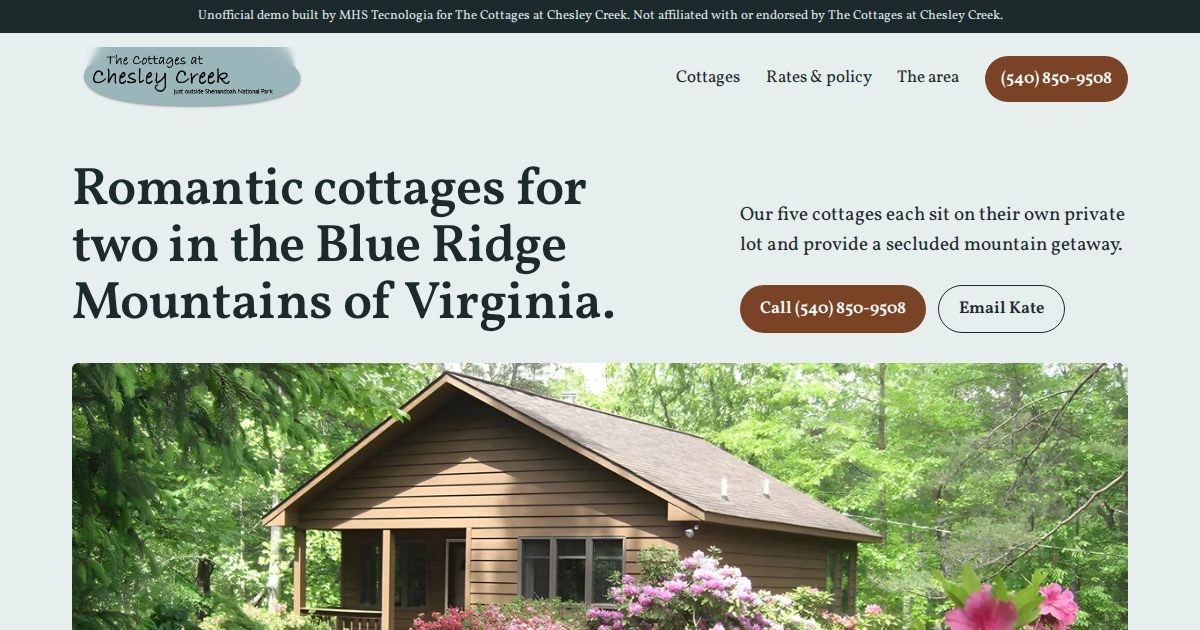
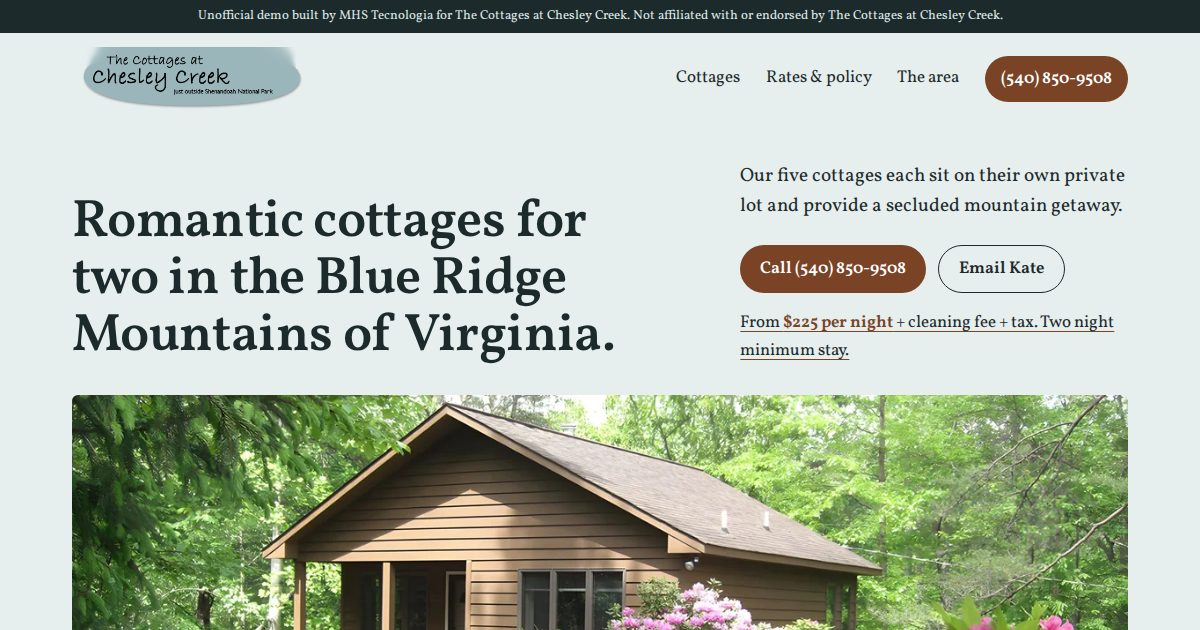
Previews: 166 ativos

diff --git a/cottages-at-chesley-creek-st-george-va/index.html b/cottages-at-chesley-creek-st-george-va/index.html
@@ -85,24 +85,28 @@ figure figcaption{font-size:.9375rem;color:var(--slate-d);margin-top:.55rem;font
 @media (max-width:860px){.land .grid{grid-template-columns:1fr}}
 @media (max-width:560px){.strip{height:auto;flex-direction:column}.strip > div{padding:.6rem .8rem}.strip .p1500{flex:none;height:7.5rem}.strip .ours{flex:none;height:2.6rem;align-items:center}.strip .ours b{display:inline;font-size:1.1rem;margin-right:.4rem}.strip .p1000{flex:none;height:5rem}.dist{grid-template-columns:1fr}}
 /* cottage index with one photo frame */
-.idx{position:relative;display:grid;grid-template-columns:1fr;gap:0}
-.idx h2{margin-bottom:.5rem}
-.idx ol{list-style:none;padding:0;margin-top:1.5rem;border-top:1px solid #b9cbcc}
-.idx li{border-bottom:1px solid #b9cbcc}
-.idx li a{display:block;padding:1.1rem 0;text-decoration:none;color:var(--ink)}
-.idx .nm{display:block;font-size:clamp(1.75rem,3.4vw,2.6rem);font-weight:600;line-height:1.1}
-.idx .hl{display:block;font-style:italic;color:var(--slate-d);font-size:1.0625rem;margin-top:.2rem}
-.idx .go{display:block;color:var(--cedar);font-size:1rem;margin-top:.35rem;text-decoration:underline;text-underline-offset:3px}
-.idx figure{margin-top:1rem}
-.idx figure img{width:100%;border-radius:.375rem}
-@media (min-width:900px){
- .idx{grid-template-columns:1fr 1fr;column-gap:clamp(2rem,5vw,4.5rem)}
- .idx .list{grid-column:1}
- .idx li figure{position:absolute;margin:0;right:0;top:var(--ft,0);width:calc(50% - clamp(1rem,2.5vw,2.25rem));opacity:0;transition:opacity .45s ease;pointer-events:none}
- .idx li.on figure{opacity:1}
- .idx li a:hover .nm,.idx li a:focus-visible .nm,.idx li.on .nm{color:var(--cedar)}
- .idx .go{display:none}
-}
+.idx ol{list-style:none;padding:0;margin-top:2rem}
+.idx li{padding:1.75rem 0;border-top:1px solid #b9cbcc}
+.idx .row{display:grid;grid-template-columns:1fr;gap:1rem}
+.idx .row > a{display:flex;flex-wrap:wrap;align-items:baseline;column-gap:1.25rem}
+.idx .row > a{text-decoration:none;color:var(--ink)}
+.idx .row > a:hover .nm{color:var(--cedar)}
+.idx .nm{display:block;font-size:clamp(1.75rem,3.2vw,2.5rem);font-weight:600;line-height:1.1}
+.idx .hl{display:block;font-style:italic;color:var(--slate-d);font-size:1.0625rem}
+.idx .go{display:inline-block;color:var(--cedar);font-size:1rem;margin-left:auto;text-decoration:underline;text-underline-offset:3px}
+.idx .duo{display:grid;grid-template-columns:1fr 1fr;gap:.75rem}
+.idx .duo img{width:100%;border-radius:.375rem}
+@media (max-width:560px){.idx .duo{grid-template-columns:1fr}.idx .duo figure+figure{display:none}}
+/* reviews */
+.reviews{background:var(--paper)}
+.reviews ul{list-style:none;padding:0;display:grid;grid-template-columns:repeat(4,1fr);gap:clamp(1rem,2.5vw,2rem);margin-top:1.75rem}
+.reviews li{border-top:3px solid var(--cedar);padding-top:1rem;font-style:italic;font-size:1.15rem;line-height:1.5}
+.reviews .src{margin-top:1.5rem;font-size:.9375rem;color:var(--slate-d)}
+@media (max-width:900px){.reviews ul{grid-template-columns:1fr 1fr}}
+@media (max-width:560px){.reviews ul{grid-template-columns:1fr}}
+.price{margin-top:1rem;font-size:1.0625rem}
+.price a{color:var(--ink);text-decoration-color:var(--cedar);text-underline-offset:4px}
+.price b{color:var(--cedar);font-weight:600}
 /* features band */
 .band{background:var(--slate);color:var(--ink)}
 .band .grid{display:grid;grid-template-columns:1fr 1.4fr;gap:clamp(2rem,5vw,4.5rem)}
@@ -192,6 +196,7 @@ footer .legal{margin-top:2.5rem;padding-top:1.25rem;border-top:1px solid rgba(25
    <div class="side">
     <p class="lede">Our five cottages each sit on their own private lot and provide a secluded mountain getaway.</p>
     <div class="actions"><a class="btn solid" href="tel:+15408509508">Call (540) 850-9508</a><a class="btn line" href="mailto:katedaniels1@icloud.com">Email Kate</a></div>
+    <p class="price"><a href="stay.html">From <b>$225 per night</b> + cleaning fee + tax. Two night minimum stay.</a></p>
    </div>
   </div>
   <figure>
@@ -234,18 +239,31 @@ footer .legal{margin-top:2.5rem;padding-top:1.25rem;border-top:1px solid rgba(25
    <h2>Five cottages</h2>
    <p>The CREEK HOUSE, PINES, RIDGE, LAURELWOOD and The LOG HOUSE: each sits on its own private lot.</p>
    <ol>
-   <li class="on"><a href="cottages.html#creek"><span class="nm">The Creek House</span><span class="hl">A Romantic Creekside Cottage in Virginia’s Blue Ridge Mountains</span><span class="go">See The Creek House</span></a>
-    <figure><img src="img/creek-ext-780.webp" srcset="img/creek-ext-480.webp 480w, img/creek-ext-640.webp 640w, img/creek-ext-780.webp 780w" sizes="(min-width: 900px) min(31rem, 44vw), calc(100vw - 2rem)" width="780" height="585" alt="The Creek House among green shrubs and trees" loading=lazy decoding=async></figure></li>
-   <li><a href="cottages.html#pines"><span class="nm">Pines</span><span class="hl">A Secluded Woodland Cottage for Two in Virginia’s Blue Ridge Mountains</span><span class="go">See Pines</span></a>
-    <figure><img src="img/pines-ext-780.webp" srcset="img/pines-ext-480.webp 480w, img/pines-ext-640.webp 640w, img/pines-ext-780.webp 780w" sizes="(min-width: 900px) min(31rem, 44vw), calc(100vw - 2rem)" width="780" height="585" alt="Pines cottage seen through the trees, with a hammock on the path" loading=lazy decoding=async></figure></li>
-   <li><a href="cottages.html#ridge"><span class="nm">Ridge</span><span class="hl">A Romantic Mountain Cottage with Beautiful Blue Ridge Views</span><span class="go">See Ridge</span></a>
-    <figure><img src="img/ridge-ext-780.webp" srcset="img/ridge-ext-480.webp 480w, img/ridge-ext-640.webp 640w, img/ridge-ext-780.webp 780w" sizes="(min-width: 900px) min(31rem, 44vw), calc(100vw - 2rem)" width="780" height="585" alt="Ridge cottage with its raised deck and a hammock between the trees" loading=lazy decoding=async></figure></li>
-   <li><a href="cottages.html#laurelwood"><span class="nm">Laurelwood</span><span class="hl">A Romantic Woodland Cottage Surrounded by Mountain Laurel</span><span class="go">See Laurelwood</span></a>
-    <figure><img src="img/laurel-ext-780.webp" srcset="img/laurel-ext-480.webp 480w, img/laurel-ext-640.webp 640w, img/laurel-ext-780.webp 780w" sizes="(min-width: 900px) min(31rem, 44vw), calc(100vw - 2rem)" width="780" height="585" alt="Laurelwood cottage at the end of a flagstone path" loading=lazy decoding=async></figure></li>
-   <li><a href="cottages.html#log-house"><span class="nm">The Log House</span><span class="hl">A Blue Ridge Mountain Retreat for Two Couples, Friends &amp; Small Groups</span><span class="go">See The Log House</span></a>
-    <figure><img src="img/log-ext-780.webp" srcset="img/log-ext-480.webp 480w, img/log-ext-640.webp 640w, img/log-ext-780.webp 780w" sizes="(min-width: 900px) min(31rem, 44vw), calc(100vw - 2rem)" width="780" height="585" alt="The Log House in the trees" loading=lazy decoding=async></figure></li>
+   <li><div class="row"><a href="cottages.html#creek"><span class="nm">The Creek House</span><span class="hl">A Romantic Creekside Cottage in Virginia’s Blue Ridge Mountains</span><span class="go">See The Creek House</span></a>
+    <div class="duo"><figure><img src="img/creek-ext-780.webp" srcset="img/creek-ext-480.webp 480w, img/creek-ext-640.webp 640w, img/creek-ext-780.webp 780w" sizes="(min-width: 561px) min(32.6rem, 50vw - 2.5rem), calc(100vw - 2rem)" width="780" height="585" alt="The Creek House among green shrubs and trees" loading=lazy decoding=async></figure><figure><img src="img/creek-tub-780.webp" srcset="img/creek-tub-480.webp 480w, img/creek-tub-640.webp 640w, img/creek-tub-780.webp 780w" sizes="(min-width: 561px) min(32.6rem, 50vw - 2.5rem), calc(100vw - 2rem)" width="780" height="585" alt="Corner air-jet spa tub under three windows in The Creek House" loading=lazy decoding=async></figure></div></div></li>
+   <li><div class="row"><a href="cottages.html#pines"><span class="nm">Pines</span><span class="hl">A Secluded Woodland Cottage for Two in Virginia’s Blue Ridge Mountains</span><span class="go">See Pines</span></a>
+    <div class="duo"><figure><img src="img/pines-ext-780.webp" srcset="img/pines-ext-480.webp 480w, img/pines-ext-640.webp 640w, img/pines-ext-780.webp 780w" sizes="(min-width: 561px) min(32.6rem, 50vw - 2.5rem), calc(100vw - 2rem)" width="780" height="585" alt="Pines cottage seen through the trees, with a hammock on the path" loading=lazy decoding=async></figure><figure><img src="img/pines-living-780.webp" srcset="img/pines-living-480.webp 480w, img/pines-living-640.webp 640w, img/pines-living-780.webp 780w" sizes="(min-width: 561px) min(32.6rem, 50vw - 2.5rem), calc(100vw - 2rem)" width="780" height="585" alt="Living room in Pines with sofa, armchairs and dining table" loading=lazy decoding=async></figure></div></div></li>
+   <li><div class="row"><a href="cottages.html#ridge"><span class="nm">Ridge</span><span class="hl">A Romantic Mountain Cottage with Beautiful Blue Ridge Views</span><span class="go">See Ridge</span></a>
+    <div class="duo"><figure><img src="img/ridge-ext-780.webp" srcset="img/ridge-ext-480.webp 480w, img/ridge-ext-640.webp 640w, img/ridge-ext-780.webp 780w" sizes="(min-width: 561px) min(32.6rem, 50vw - 2.5rem), calc(100vw - 2rem)" width="780" height="585" alt="Ridge cottage with its raised deck and a hammock between the trees" loading=lazy decoding=async></figure><figure><img src="img/ridge-porch-780.webp" srcset="img/ridge-porch-480.webp 480w, img/ridge-porch-640.webp 640w, img/ridge-porch-780.webp 780w" sizes="(min-width: 561px) min(32.6rem, 50vw - 2.5rem), calc(100vw - 2rem)" width="780" height="585" alt="Rocking chair on the covered porch of Ridge, looking into the woods" loading=lazy decoding=async></figure></div></div></li>
+   <li><div class="row"><a href="cottages.html#laurelwood"><span class="nm">Laurelwood</span><span class="hl">A Romantic Woodland Cottage Surrounded by Mountain Laurel</span><span class="go">See Laurelwood</span></a>
+    <div class="duo"><figure><img src="img/laurel-ext-780.webp" srcset="img/laurel-ext-480.webp 480w, img/laurel-ext-640.webp 640w, img/laurel-ext-780.webp 780w" sizes="(min-width: 561px) min(32.6rem, 50vw - 2.5rem), calc(100vw - 2rem)" width="780" height="585" alt="Laurelwood cottage at the end of a flagstone path" loading=lazy decoding=async></figure><figure><img src="img/laurel-living-780.webp" srcset="img/laurel-living-480.webp 480w, img/laurel-living-640.webp 640w, img/laurel-living-780.webp 780w" sizes="(min-width: 561px) min(32.6rem, 50vw - 2.5rem), calc(100vw - 2rem)" width="780" height="585" alt="Living room in Laurelwood with fireplace and checked armchairs" loading=lazy decoding=async></figure></div></div></li>
+   <li><div class="row"><a href="cottages.html#log-house"><span class="nm">The Log House</span><span class="hl">A Blue Ridge Mountain Retreat for Two Couples, Friends &amp; Small Groups</span><span class="go">See The Log House</span></a>
+    <div class="duo"><figure><img src="img/log-ext-780.webp" srcset="img/log-ext-480.webp 480w, img/log-ext-640.webp 640w, img/log-ext-780.webp 780w" sizes="(min-width: 561px) min(32.6rem, 50vw - 2.5rem), calc(100vw - 2rem)" width="780" height="585" alt="The Log House in the trees" loading=lazy decoding=async></figure><figure><img src="img/log-living-780.webp" srcset="img/log-living-480.webp 480w, img/log-living-640.webp 640w, img/log-living-780.webp 780w" sizes="(min-width: 561px) min(32.6rem, 50vw - 2.5rem), calc(100vw - 2rem)" width="780" height="585" alt="Living room of The Log House with log walls, beams and a red sofa" loading=lazy decoding=async></figure></div></div></li>
    </ol>
   </div>
+ </div>
+</section>
+
+<section class="reviews">
+ <div class="wrap">
+  <h2>Recent Traveler Reviews</h2>
+  <ul>
+   <li>“Based on online reviews I booked a short stay at the Creek House at Chesley Creek...”</li>
+   <li>“We have been going to Chesley Creek for 11 years. It offers us the chance to...”</li>
+   <li>“I found the Cottages at Chelsey Creek when they only had two cabins (they now have...”</li>
+   <li>“We stayed in the Ridge cabin at Chesley Creek Farm and it was the perfect weekend...”</li>
+  </ul>
+  <p class="src">Review excerpts as shown in the TripAdvisor box on their About Our Property page.</p>
  </div>
 </section>
 
@@ -272,6 +290,7 @@ footer .legal{margin-top:2.5rem;padding-top:1.25rem;border-top:1px solid rgba(25
  <div class="kate">
   <div>
    <h2>Come stay in a place purpose-built to commune with nature and unwind!</h2>
+   <p style="margin-top:1rem">To check availability and book your stay, call or email Kate. Please contact us regarding availability for single-night or longer-term stays.</p>
    <dl>
     <dt>Hospitality Manager</dt><dd>Kate Daniels</dd>
     <dt>Phone</dt><dd><a href="tel:+15408509508">(540) 850-9508</a></dd>
@@ -302,13 +321,6 @@ footer .legal{margin-top:2.5rem;padding-top:1.25rem;border-top:1px solid rgba(25
  if(d&&h&&'IntersectionObserver'in window){new IntersectionObserver(function(e){d.classList.toggle('show',!e[0].isIntersecting)}).observe(h)}
  var mq=matchMedia('(min-width: 900px)');
  document.querySelectorAll('details.am').forEach(function(x){if(mq.matches)x.open=true});
- var idx=document.querySelector('.idx');
- if(idx){var lis=idx.querySelectorAll('li'),fr=idx.querySelector('ol');
-  function place(){var t=fr?fr.offsetTop:0;lis.forEach(function(l){var f=l.querySelector('figure');if(f)f.style.top=t+'px'})}
-  function on(l){lis.forEach(function(x){x.classList.toggle('on',x===l)})}
-  lis.forEach(function(l){l.addEventListener('mouseenter',function(){on(l)});l.addEventListener('focusin',function(){on(l)})});
-  place();addEventListener('resize',place);
- }
 })();
 </script>
 </body>

diff --git a/cottages-at-chesley-creek-st-george-va/stay.html b/cottages-at-chesley-creek-st-george-va/stay.html
@@ -83,24 +83,28 @@ figure figcaption{font-size:.9375rem;color:var(--slate-d);margin-top:.55rem;font
 @media (max-width:860px){.land .grid{grid-template-columns:1fr}}
 @media (max-width:560px){.strip{height:auto;flex-direction:column}.strip > div{padding:.6rem .8rem}.strip .p1500{flex:none;height:7.5rem}.strip .ours{flex:none;height:2.6rem;align-items:center}.strip .ours b{display:inline;font-size:1.1rem;margin-right:.4rem}.strip .p1000{flex:none;height:5rem}.dist{grid-template-columns:1fr}}
 /* cottage index with one photo frame */
-.idx{position:relative;display:grid;grid-template-columns:1fr;gap:0}
-.idx h2{margin-bottom:.5rem}
-.idx ol{list-style:none;padding:0;margin-top:1.5rem;border-top:1px solid #b9cbcc}
-.idx li{border-bottom:1px solid #b9cbcc}
-.idx li a{display:block;padding:1.1rem 0;text-decoration:none;color:var(--ink)}
-.idx .nm{display:block;font-size:clamp(1.75rem,3.4vw,2.6rem);font-weight:600;line-height:1.1}
-.idx .hl{display:block;font-style:italic;color:var(--slate-d);font-size:1.0625rem;margin-top:.2rem}
-.idx .go{display:block;color:var(--cedar);font-size:1rem;margin-top:.35rem;text-decoration:underline;text-underline-offset:3px}
-.idx figure{margin-top:1rem}
-.idx figure img{width:100%;border-radius:.375rem}
-@media (min-width:900px){
- .idx{grid-template-columns:1fr 1fr;column-gap:clamp(2rem,5vw,4.5rem)}
- .idx .list{grid-column:1}
- .idx li figure{position:absolute;margin:0;right:0;top:var(--ft,0);width:calc(50% - clamp(1rem,2.5vw,2.25rem));opacity:0;transition:opacity .45s ease;pointer-events:none}
- .idx li.on figure{opacity:1}
- .idx li a:hover .nm,.idx li a:focus-visible .nm,.idx li.on .nm{color:var(--cedar)}
- .idx .go{display:none}
-}
+.idx ol{list-style:none;padding:0;margin-top:2rem}
+.idx li{padding:1.75rem 0;border-top:1px solid #b9cbcc}
+.idx .row{display:grid;grid-template-columns:1fr;gap:1rem}
+.idx .row > a{display:flex;flex-wrap:wrap;align-items:baseline;column-gap:1.25rem}
+.idx .row > a{text-decoration:none;color:var(--ink)}
+.idx .row > a:hover .nm{color:var(--cedar)}
+.idx .nm{display:block;font-size:clamp(1.75rem,3.2vw,2.5rem);font-weight:600;line-height:1.1}
+.idx .hl{display:block;font-style:italic;color:var(--slate-d);font-size:1.0625rem}
+.idx .go{display:inline-block;color:var(--cedar);font-size:1rem;margin-left:auto;text-decoration:underline;text-underline-offset:3px}
+.idx .duo{display:grid;grid-template-columns:1fr 1fr;gap:.75rem}
+.idx .duo img{width:100%;border-radius:.375rem}
+@media (max-width:560px){.idx .duo{grid-template-columns:1fr}.idx .duo figure+figure{display:none}}
+/* reviews */
+.reviews{background:var(--paper)}
+.reviews ul{list-style:none;padding:0;display:grid;grid-template-columns:repeat(4,1fr);gap:clamp(1rem,2.5vw,2rem);margin-top:1.75rem}
+.reviews li{border-top:3px solid var(--cedar);padding-top:1rem;font-style:italic;font-size:1.15rem;line-height:1.5}
+.reviews .src{margin-top:1.5rem;font-size:.9375rem;color:var(--slate-d)}
+@media (max-width:900px){.reviews ul{grid-template-columns:1fr 1fr}}
+@media (max-width:560px){.reviews ul{grid-template-columns:1fr}}
+.price{margin-top:1rem;font-size:1.0625rem}
+.price a{color:var(--ink);text-decoration-color:var(--cedar);text-underline-offset:4px}
+.price b{color:var(--cedar);font-weight:600}
 /* features band */
 .band{background:var(--slate);color:var(--ink)}
 .band .grid{display:grid;grid-template-columns:1fr 1.4fr;gap:clamp(2rem,5vw,4.5rem)}
@@ -203,7 +207,7 @@ footer .legal{margin-top:2.5rem;padding-top:1.25rem;border-top:1px solid rgba(25
   </div>
  </div>
 </section>
-<section class="wrap" style="padding-top:0">
+<section class="wrap" style="padding-top:0;padding-bottom:0">
  <figure class="photo"><img src="img/pool-1800.webp" srcset="img/pool-800.webp 800w, img/pool-1200.webp 1200w, img/pool-1800.webp 1800w" sizes="min(66rem, 100vw - 2rem)" width="1127" height="422" alt="The shared saltwater pool, with lounge chairs, in a clearing in the woods" loading=lazy decoding=async>
  <figcaption>Shared saltwater pool (in season)</figcaption></figure>
 </section>
@@ -212,6 +216,7 @@ footer .legal{margin-top:2.5rem;padding-top:1.25rem;border-top:1px solid rgba(25
  <div class="kate">
   <div>
    <h2>Come stay in a place purpose-built to commune with nature and unwind!</h2>
+   <p style="margin-top:1rem">To check availability and book your stay, call or email Kate. Please contact us regarding availability for single-night or longer-term stays.</p>
    <dl>
     <dt>Hospitality Manager</dt><dd>Kate Daniels</dd>
     <dt>Phone</dt><dd><a href="tel:+15408509508">(540) 850-9508</a></dd>
@@ -242,13 +247,6 @@ footer .legal{margin-top:2.5rem;padding-top:1.25rem;border-top:1px solid rgba(25
  if(d&&h&&'IntersectionObserver'in window){new IntersectionObserver(function(e){d.classList.toggle('show',!e[0].isIntersecting)}).observe(h)}
  var mq=matchMedia('(min-width: 900px)');
  document.querySelectorAll('details.am').forEach(function(x){if(mq.matches)x.open=true});
- var idx=document.querySelector('.idx');
- if(idx){var lis=idx.querySelectorAll('li'),fr=idx.querySelector('ol');
-  function place(){var t=fr?fr.offsetTop:0;lis.forEach(function(l){var f=l.querySelector('figure');if(f)f.style.top=t+'px'})}
-  function on(l){lis.forEach(function(x){x.classList.toggle('on',x===l)})}
-  lis.forEach(function(l){l.addEventListener('mouseenter',function(){on(l)});l.addEventListener('focusin',function(){on(l)})});
-  place();addEventListener('resize',place);
- }
 })();
 </script>
 </body>

diff --git a/cottages-at-chesley-creek-st-george-va/area.html b/cottages-at-chesley-creek-st-george-va/area.html
@@ -83,24 +83,28 @@ figure figcaption{font-size:.9375rem;color:var(--slate-d);margin-top:.55rem;font
 @media (max-width:860px){.land .grid{grid-template-columns:1fr}}
 @media (max-width:560px){.strip{height:auto;flex-direction:column}.strip > div{padding:.6rem .8rem}.strip .p1500{flex:none;height:7.5rem}.strip .ours{flex:none;height:2.6rem;align-items:center}.strip .ours b{display:inline;font-size:1.1rem;margin-right:.4rem}.strip .p1000{flex:none;height:5rem}.dist{grid-template-columns:1fr}}
 /* cottage index with one photo frame */
-.idx{position:relative;display:grid;grid-template-columns:1fr;gap:0}
-.idx h2{margin-bottom:.5rem}
-.idx ol{list-style:none;padding:0;margin-top:1.5rem;border-top:1px solid #b9cbcc}
-.idx li{border-bottom:1px solid #b9cbcc}
-.idx li a{display:block;padding:1.1rem 0;text-decoration:none;color:var(--ink)}
-.idx .nm{display:block;font-size:clamp(1.75rem,3.4vw,2.6rem);font-weight:600;line-height:1.1}
-.idx .hl{display:block;font-style:italic;color:var(--slate-d);font-size:1.0625rem;margin-top:.2rem}
-.idx .go{display:block;color:var(--cedar);font-size:1rem;margin-top:.35rem;text-decoration:underline;text-underline-offset:3px}
-.idx figure{margin-top:1rem}
-.idx figure img{width:100%;border-radius:.375rem}
-@media (min-width:900px){
- .idx{grid-template-columns:1fr 1fr;column-gap:clamp(2rem,5vw,4.5rem)}
- .idx .list{grid-column:1}
- .idx li figure{position:absolute;margin:0;right:0;top:var(--ft,0);width:calc(50% - clamp(1rem,2.5vw,2.25rem));opacity:0;transition:opacity .45s ease;pointer-events:none}
- .idx li.on figure{opacity:1}
- .idx li a:hover .nm,.idx li a:focus-visible .nm,.idx li.on .nm{color:var(--cedar)}
- .idx .go{display:none}
-}
+.idx ol{list-style:none;padding:0;margin-top:2rem}
+.idx li{padding:1.75rem 0;border-top:1px solid #b9cbcc}
+.idx .row{display:grid;grid-template-columns:1fr;gap:1rem}
+.idx .row > a{display:flex;flex-wrap:wrap;align-items:baseline;column-gap:1.25rem}
+.idx .row > a{text-decoration:none;color:var(--ink)}
+.idx .row > a:hover .nm{color:var(--cedar)}
+.idx .nm{display:block;font-size:clamp(1.75rem,3.2vw,2.5rem);font-weight:600;line-height:1.1}
+.idx .hl{display:block;font-style:italic;color:var(--slate-d);font-size:1.0625rem}
+.idx .go{display:inline-block;color:var(--cedar);font-size:1rem;margin-left:auto;text-decoration:underline;text-underline-offset:3px}
+.idx .duo{display:grid;grid-template-columns:1fr 1fr;gap:.75rem}
+.idx .duo img{width:100%;border-radius:.375rem}
+@media (max-width:560px){.idx .duo{grid-template-columns:1fr}.idx .duo figure+figure{display:none}}
+/* reviews */
+.reviews{background:var(--paper)}
+.reviews ul{list-style:none;padding:0;display:grid;grid-template-columns:repeat(4,1fr);gap:clamp(1rem,2.5vw,2rem);margin-top:1.75rem}
+.reviews li{border-top:3px solid var(--cedar);padding-top:1rem;font-style:italic;font-size:1.15rem;line-height:1.5}
+.reviews .src{margin-top:1.5rem;font-size:.9375rem;color:var(--slate-d)}
+@media (max-width:900px){.reviews ul{grid-template-columns:1fr 1fr}}
+@media (max-width:560px){.reviews ul{grid-template-columns:1fr}}
+.price{margin-top:1rem;font-size:1.0625rem}
+.price a{color:var(--ink);text-decoration-color:var(--cedar);text-underline-offset:4px}
+.price b{color:var(--cedar);font-weight:600}
 /* features band */
 .band{background:var(--slate);color:var(--ink)}
 .band .grid{display:grid;grid-template-columns:1fr 1.4fr;gap:clamp(2rem,5vw,4.5rem)}
@@ -205,6 +209,7 @@ footer .legal{margin-top:2.5rem;padding-top:1.25rem;border-top:1px solid rgba(25
  <div class="kate">
   <div>
    <h2>Come stay in a place purpose-built to commune with nature and unwind!</h2>
+   <p style="margin-top:1rem">To check availability and book your stay, call or email Kate. Please contact us regarding availability for single-night or longer-term stays.</p>
    <dl>
     <dt>Hospitality Manager</dt><dd>Kate Daniels</dd>
     <dt>Phone</dt><dd><a href="tel:+15408509508">(540) 850-9508</a></dd>
@@ -235,13 +240,6 @@ footer .legal{margin-top:2.5rem;padding-top:1.25rem;border-top:1px solid rgba(25
  if(d&&h&&'IntersectionObserver'in window){new IntersectionObserver(function(e){d.classList.toggle('show',!e[0].isIntersecting)}).observe(h)}
  var mq=matchMedia('(min-width: 900px)');
  document.querySelectorAll('details.am').forEach(function(x){if(mq.matches)x.open=true});
- var idx=document.querySelector('.idx');
- if(idx){var lis=idx.querySelectorAll('li'),fr=idx.querySelector('ol');
-  function place(){var t=fr?fr.offsetTop:0;lis.forEach(function(l){var f=l.querySelector('figure');if(f)f.style.top=t+'px'})}
-  function on(l){lis.forEach(function(x){x.classList.toggle('on',x===l)})}
-  lis.forEach(function(l){l.addEventListener('mouseenter',function(){on(l)});l.addEventListener('focusin',function(){on(l)})});
-  place();addEventListener('resize',place);
- }
 })();
 </script>
 </body>

diff --git a/cottages-at-chesley-creek-st-george-va/cottages.html b/cottages-at-chesley-creek-st-george-va/cottages.html
@@ -83,24 +83,28 @@ figure figcaption{font-size:.9375rem;color:var(--slate-d);margin-top:.55rem;font
 @media (max-width:860px){.land .grid{grid-template-columns:1fr}}
 @media (max-width:560px){.strip{height:auto;flex-direction:column}.strip > div{padding:.6rem .8rem}.strip .p1500{flex:none;height:7.5rem}.strip .ours{flex:none;height:2.6rem;align-items:center}.strip .ours b{display:inline;font-size:1.1rem;margin-right:.4rem}.strip .p1000{flex:none;height:5rem}.dist{grid-template-columns:1fr}}
 /* cottage index with one photo frame */
-.idx{position:relative;display:grid;grid-template-columns:1fr;gap:0}
-.idx h2{margin-bottom:.5rem}
-.idx ol{list-style:none;padding:0;margin-top:1.5rem;border-top:1px solid #b9cbcc}
-.idx li{border-bottom:1px solid #b9cbcc}
-.idx li a{display:block;padding:1.1rem 0;text-decoration:none;color:var(--ink)}
-.idx .nm{display:block;font-size:clamp(1.75rem,3.4vw,2.6rem);font-weight:600;line-height:1.1}
-.idx .hl{display:block;font-style:italic;color:var(--slate-d);font-size:1.0625rem;margin-top:.2rem}
-.idx .go{display:block;color:var(--cedar);font-size:1rem;margin-top:.35rem;text-decoration:underline;text-underline-offset:3px}
-.idx figure{margin-top:1rem}
-.idx figure img{width:100%;border-radius:.375rem}
-@media (min-width:900px){
- .idx{grid-template-columns:1fr 1fr;column-gap:clamp(2rem,5vw,4.5rem)}
- .idx .list{grid-column:1}
- .idx li figure{position:absolute;margin:0;right:0;top:var(--ft,0);width:calc(50% - clamp(1rem,2.5vw,2.25rem));opacity:0;transition:opacity .45s ease;pointer-events:none}
- .idx li.on figure{opacity:1}
- .idx li a:hover .nm,.idx li a:focus-visible .nm,.idx li.on .nm{color:var(--cedar)}
- .idx .go{display:none}
-}
+.idx ol{list-style:none;padding:0;margin-top:2rem}
+.idx li{padding:1.75rem 0;border-top:1px solid #b9cbcc}
+.idx .row{display:grid;grid-template-columns:1fr;gap:1rem}
+.idx .row > a{display:flex;flex-wrap:wrap;align-items:baseline;column-gap:1.25rem}
+.idx .row > a{text-decoration:none;color:var(--ink)}
+.idx .row > a:hover .nm{color:var(--cedar)}
+.idx .nm{display:block;font-size:clamp(1.75rem,3.2vw,2.5rem);font-weight:600;line-height:1.1}
+.idx .hl{display:block;font-style:italic;color:var(--slate-d);font-size:1.0625rem}
+.idx .go{display:inline-block;color:var(--cedar);font-size:1rem;margin-left:auto;text-decoration:underline;text-underline-offset:3px}
+.idx .duo{display:grid;grid-template-columns:1fr 1fr;gap:.75rem}
+.idx .duo img{width:100%;border-radius:.375rem}
+@media (max-width:560px){.idx .duo{grid-template-columns:1fr}.idx .duo figure+figure{display:none}}
+/* reviews */
+.reviews{background:var(--paper)}
+.reviews ul{list-style:none;padding:0;display:grid;grid-template-columns:repeat(4,1fr);gap:clamp(1rem,2.5vw,2rem);margin-top:1.75rem}
+.reviews li{border-top:3px solid var(--cedar);padding-top:1rem;font-style:italic;font-size:1.15rem;line-height:1.5}
+.reviews .src{margin-top:1.5rem;font-size:.9375rem;color:var(--slate-d)}
+@media (max-width:900px){.reviews ul{grid-template-columns:1fr 1fr}}
+@media (max-width:560px){.reviews ul{grid-template-columns:1fr}}
+.price{margin-top:1rem;font-size:1.0625rem}
+.price a{color:var(--ink);text-decoration-color:var(--cedar);text-underline-offset:4px}
+.price b{color:var(--cedar);font-weight:600}
 /* features band */
 .band{background:var(--slate);color:var(--ink)}
 .band .grid{display:grid;grid-template-columns:1fr 1.4fr;gap:clamp(2rem,5vw,4.5rem)}
@@ -242,6 +246,7 @@ footer .legal{margin-top:2.5rem;padding-top:1.25rem;border-top:1px solid rgba(25
  <div class="kate">
   <div>
    <h2>Come stay in a place purpose-built to commune with nature and unwind!</h2>
+   <p style="margin-top:1rem">To check availability and book your stay, call or email Kate. Please contact us regarding availability for single-night or longer-term stays.</p>
    <dl>
     <dt>Hospitality Manager</dt><dd>Kate Daniels</dd>
     <dt>Phone</dt><dd><a href="tel:+15408509508">(540) 850-9508</a></dd>
@@ -272,13 +277,6 @@ footer .legal{margin-top:2.5rem;padding-top:1.25rem;border-top:1px solid rgba(25
  if(d&&h&&'IntersectionObserver'in window){new IntersectionObserver(function(e){d.classList.toggle('show',!e[0].isIntersecting)}).observe(h)}
  var mq=matchMedia('(min-width: 900px)');
  document.querySelectorAll('details.am').forEach(function(x){if(mq.matches)x.open=true});
- var idx=document.querySelector('.idx');
- if(idx){var lis=idx.querySelectorAll('li'),fr=idx.querySelector('ol');
-  function place(){var t=fr?fr.offsetTop:0;lis.forEach(function(l){var f=l.querySelector('figure');if(f)f.style.top=t+'px'})}
-  function on(l){lis.forEach(function(x){x.classList.toggle('on',x===l)})}
-  lis.forEach(function(l){l.addEventListener('mouseenter',function(){on(l)});l.addEventListener('focusin',function(){on(l)})});
-  place();addEventListener('resize',place);
- }
 })();
 </script>
 </body>
